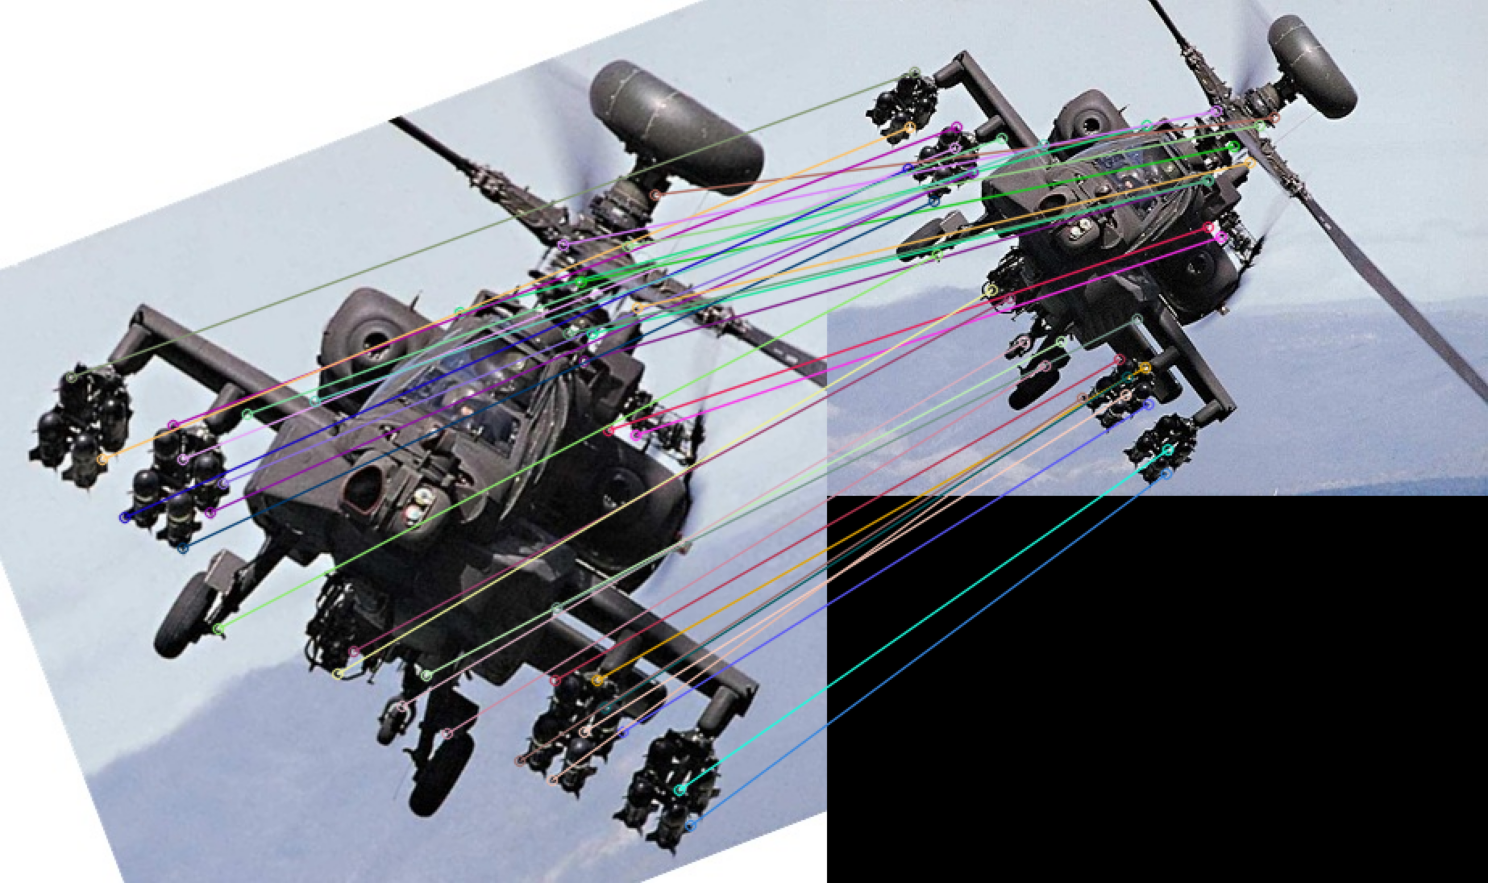
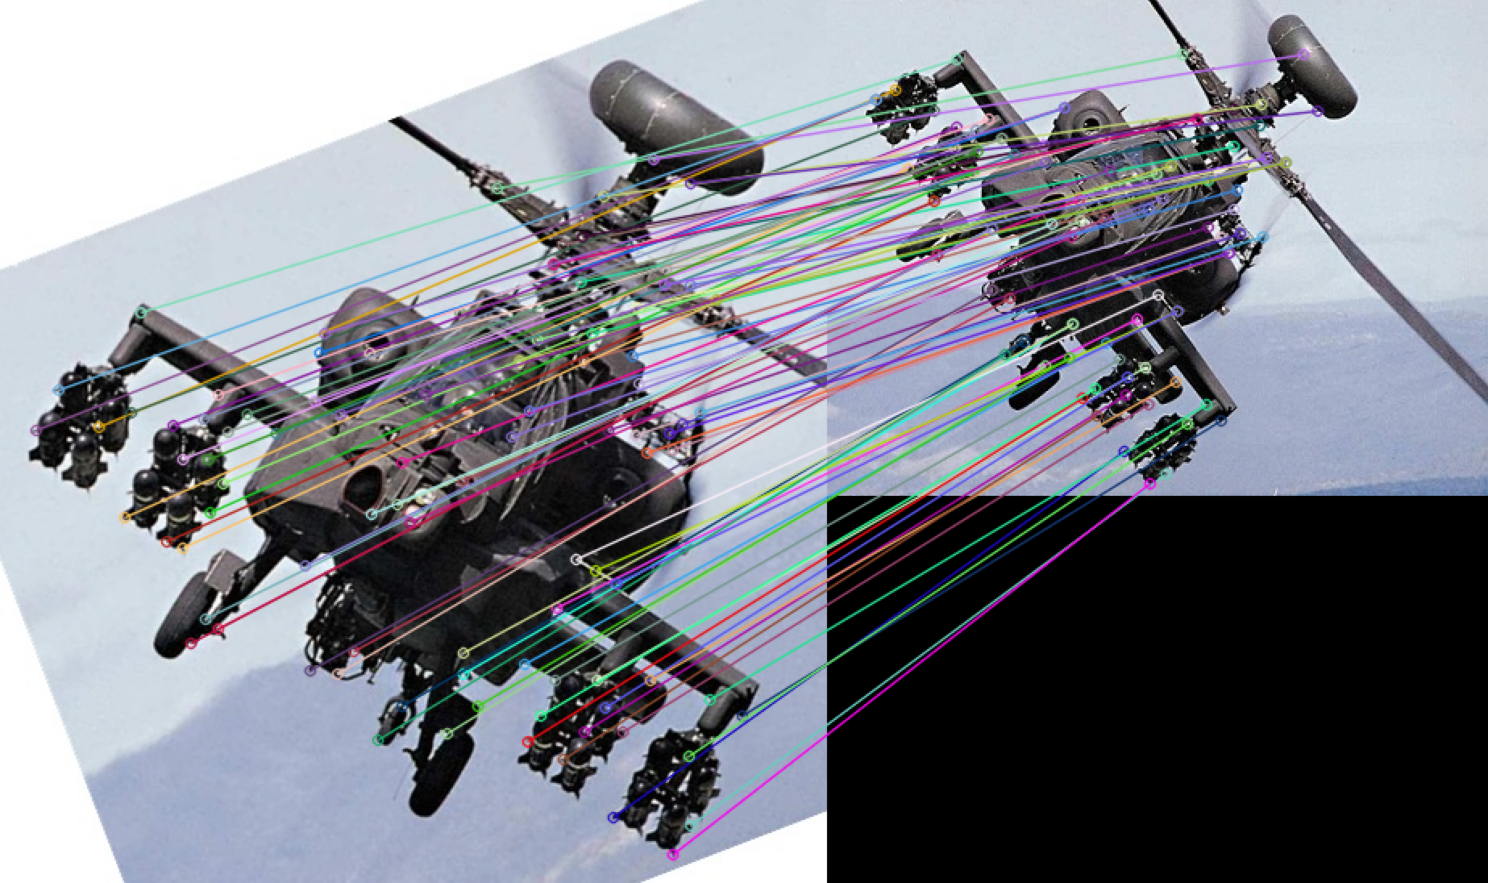
Update src codes

diff --git a/src/main.py b/src/main.py
@@ -4,6 +4,7 @@ import warnings
 import argparse
 import cv2
 import matplotlib.pyplot as plt
+from tqdm import tqdm
 from sift import SIFT
 from utils import get_image_paths
 
@@ -14,6 +15,7 @@ def parse_args(args):
     """
     parser = argparse.ArgumentParser()
     parser.add_argument("--image-dir", type=str, default="dataset", help="path to the input image or folder of input images")
+    parser.add_argument("--opencv", type=bool, default=False, help="use OpenCV or not")
     parser.add_argument("--target-dir", type=str, default="target.jpg", help="path to the target image")
     parser.add_argument("--output-dir", type=str, default="result", help="path to folder of output images")
     parser.add_argument("--output-type", type=str, default="png", help="layout of output images")
@@ -25,24 +27,28 @@ def parse_args(args):
 def main(args):
     args = parse_args(args)
 
-    sift = SIFT()
+    sift = SIFT() if not args.opencv else cv2.SIFT_create()
     image1 = cv2.imread(args.target_dir)
-    kps1, dst1 = sift.detect_and_compute(image1)
+    gray1 = cv2.cvtColor(image1, cv2.COLOR_BGR2GRAY)
+    kps1, dst1 = sift.detectAndCompute(gray1, None)
 
     img_paths = get_image_paths(args.image_dir)
-    for img_path in img_paths:
+    for img_path in tqdm(img_paths, desc='Processing images'):
         image2 = cv2.imread(img_path)
-        kps2, dst2 = sift.detect_and_compute(image2)
-
+        gray2 = cv2.cvtColor(image2, cv2.COLOR_BGR2GRAY)
+        kps2, dst2 = sift.detectAndCompute(gray2, None)
+ 
         bf = cv2.BFMatcher()
         matches = bf.knnMatch(dst1, dst2, k=2)
-        good_matches = [m for m, n in matches if m.distance < 0.8 * n.distance]
+        threshold = 0.8 if not args.opencv else 0.4
+        good_matches = [m for m, n in matches if m.distance < threshold * n.distance]
         match_img = cv2.drawMatches(image1, kps1, image2, kps2, good_matches, None, flags=cv2.DrawMatchesFlags_NOT_DRAW_SINGLE_POINTS)
 
         if not os.path.exists(args.output_dir):
             os.makedirs(args.output_dir)
         original_filename = os.path.splitext(os.path.basename(img_path))[0]
-        save_pth = os.path.join(args.output_dir, f"{original_filename}-mySift.{args.output_type}")
+        type = "my" if not args.opencv else "opencv"
+        save_pth = os.path.join(args.output_dir, f"{original_filename}-{type}SIFT.{args.output_type}")
         if os.path.exists(save_pth):
             warnings.warn(f"File '{save_pth}' already exists. Existing file will be overwritten.", UserWarning)
 

diff --git a/src/sift.py b/src/sift.py
@@ -2,6 +2,7 @@ import copy
 import cv2
 import numpy as np
 from matplotlib import pyplot as plt
+from tqdm import tqdm
 from typing import Tuple
 
 
@@ -11,15 +12,14 @@ class SIFT:
         self.alpha = alpha
         self.beta = beta
 
-    def detect_and_compute(
+    def detectAndCompute(
             self, 
-            img: np.ndarray
+            img: np.ndarray,  # 灰度图片
+            mask: None
     ):
         """
         关键点提取及描述子计算
-        """
-        img = cv2.cvtColor(img, cv2.COLOR_BGR2GRAY)
-        
+        """       
         # 超参数计算
         sigma = (img.shape[0] + img.shape[1]) / self.alpha
         radius = int(sigma * self.beta)
@@ -28,7 +28,7 @@ class SIFT:
         n = radius
 
         # 关键点提取
-        corners = cv2.goodFeaturesToTrack(img, 100, 0.01, 10).astype(np.int32)
+        corners = cv2.goodFeaturesToTrack(img, 300, 0.01, 10).astype(np.int32)
 
         # 梯度计算
         magnitudes, angles = calc_grad(img)
@@ -37,7 +37,7 @@ class SIFT:
         dsts = []
 
         # 逐个处理关键点
-        for corner in corners:
+        for corner in tqdm(corners, desc='Processing keypoints'):
 
             y, x = corner.ravel()
 
@@ -85,8 +85,8 @@ class SIFT:
             dsts.append(dst)
 
         kps = np.array(kps)
-        dst = np.array(dsts, dtype=np.float32)
-        return kps, dst
+        dsts = np.array(dsts, dtype=np.float32)
+        return kps, dsts
 
 
 
@@ -127,7 +127,7 @@ if __name__ == '__main__':
 
     image1 = cv2.imread("target.jpg")
     kps1, dst1 = sift.detect_and_compute(image1)
-    image2 = cv2.imread("dataset/3.jpg")
+    image2 = cv2.imread("dataset/2.jpg")
     kps2, dst2 = sift.detect_and_compute(image2)
 
     similarity_matrix = np.dot(dst1, dst2.T)
@@ -135,6 +135,15 @@ if __name__ == '__main__':
     plt.imshow(similarity_matrix, cmap='inferno', interpolation='nearest', vmin=0, vmax=1)
     plt.colorbar()
     plt.show()
+
+    # similarities = similarity_matrix.flatten()
+    # plt.figure(figsize=(8, 6))
+    # plt.hist(similarities, bins=50, color='skyblue', edgecolor='black', alpha=0.7)
+    # plt.title('Distribution of Similarities')
+    # plt.xlabel('Similarity (Dot Product)')
+    # plt.ylabel('Frequency')
+    # plt.grid(True, linestyle='--', alpha=0.6)
+    # plt.show()
 
     bf = cv2.BFMatcher()
     matches = bf.knnMatch(dst1, dst2, k=2)

diff --git a/src/opencv_sift.py b/src/opencv_sift.py
@@ -1,5 +1,6 @@
 import cv2
 import numpy as np
+from matplotlib import pyplot as plt
 
 image1 = cv2.imread("target.jpg")
 image2 = cv2.imread("dataset/3.jpg")
@@ -15,10 +16,16 @@ keypoints2, descriptors2 = sift.detectAndCompute(gray2, None)
 bf = cv2.BFMatcher()
 matches = bf.knnMatch(descriptors1, descriptors2, k=2)
 
-good_matches = [m for m, n in matches if m.distance < 0.4 * n.distance]
+good_matches = [m for m, n in matches if m.distance < 0.8 * n.distance]
 
 match_img = cv2.drawMatches(image1, keypoints1, image2, keypoints2, good_matches, None, flags=cv2.DrawMatchesFlags_NOT_DRAW_SINGLE_POINTS)
 
-cv2.imshow("SIFT Matches with Filtering", match_img)
-cv2.waitKey(0)
-cv2.destroyAllWindows()
+# 创建白色背景
+background = np.ones_like(match_img, dtype=np.uint8) * 255
+
+# 将匹配图像叠加到白色背景
+matches_img_white_bg = np.where(match_img > 0, match_img, background)
+
+plt.imshow(cv2.cvtColor(matches_img_white_bg, cv2.COLOR_BGR2RGB))
+plt.axis("off")
+plt.show()
